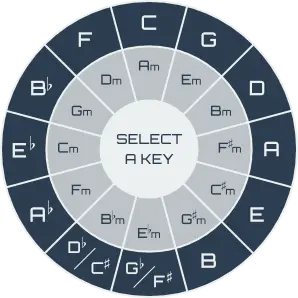
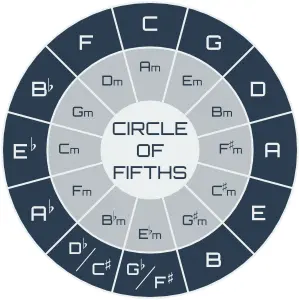
Remove redundant elements & clean up code

diff --git a/assets/css/styles.css b/assets/css/styles.css
@@ -209,20 +209,6 @@ main {
     background-color: #D9DCDD;
 }
 
-.start-button {
-    text-align: center;
-    background-color: #e67e22;
-    font-size: 1.1em;
-    font-family: 'Orbitron';
-    font-weight: 700;
-    text-transform: uppercase;
-}
-
-.start-button:hover {
-    color: #e67e22;
-    background-color: #ecf0f1;
-}
-
 .key-select {
     background-color: transparent;
     color: transparent;
@@ -337,11 +323,6 @@ button {
     border-radius: 3px;
 }
 
-.start-button {
-    border: 2px solid #e67e22;
-    border-radius: 50%;
-}
-
 .key-select {
     border: 2px solid transparent;
     border-radius: 50%;
@@ -408,16 +389,6 @@ main {
 .key-select-inner {
     align-items: center;
     justify-content: center;
-}
-
-.start-button {
-    content: "START HERE";
-    width: 100px;
-    height: 100px;
-    display: flex;
-    align-items: center;
-    justify-content: center;
-    z-index: 1;
 }
 
 .keys {

diff --git a/assets/js/script.js b/assets/js/script.js
@@ -260,14 +260,12 @@ function populateChords() {
 // Button Event Listeners
 
 // Modal buttons
-const startButton = document.getElementById("startButton");
-const startContent = document.getElementById("startContent");
 const modal = document.querySelectorAll(".modal-container");
 const modalButtons = document.querySelectorAll(".modal-button");
 
 modalButtons.forEach(modalButton => {
     modalButton.addEventListener("click", function() {
-        startContent.classList.add("modal-show");
+        // startContent.classList.add("modal-show");
      });
 });
 

diff --git a/index.html b/index.html
@@ -95,9 +95,6 @@
                     <!-- Key Selection Buttons -->
                     <div id="keySelectContainer" class="key-select-inner flex-container">
 
-                        <!-- Start Button -->
-                        <button id="startButton" type="button" class="start-button modal-button">Start Here</button>
-
                         <!-- Major Keys Select -->
                         <div class="major-keys keys flex-container">
 
